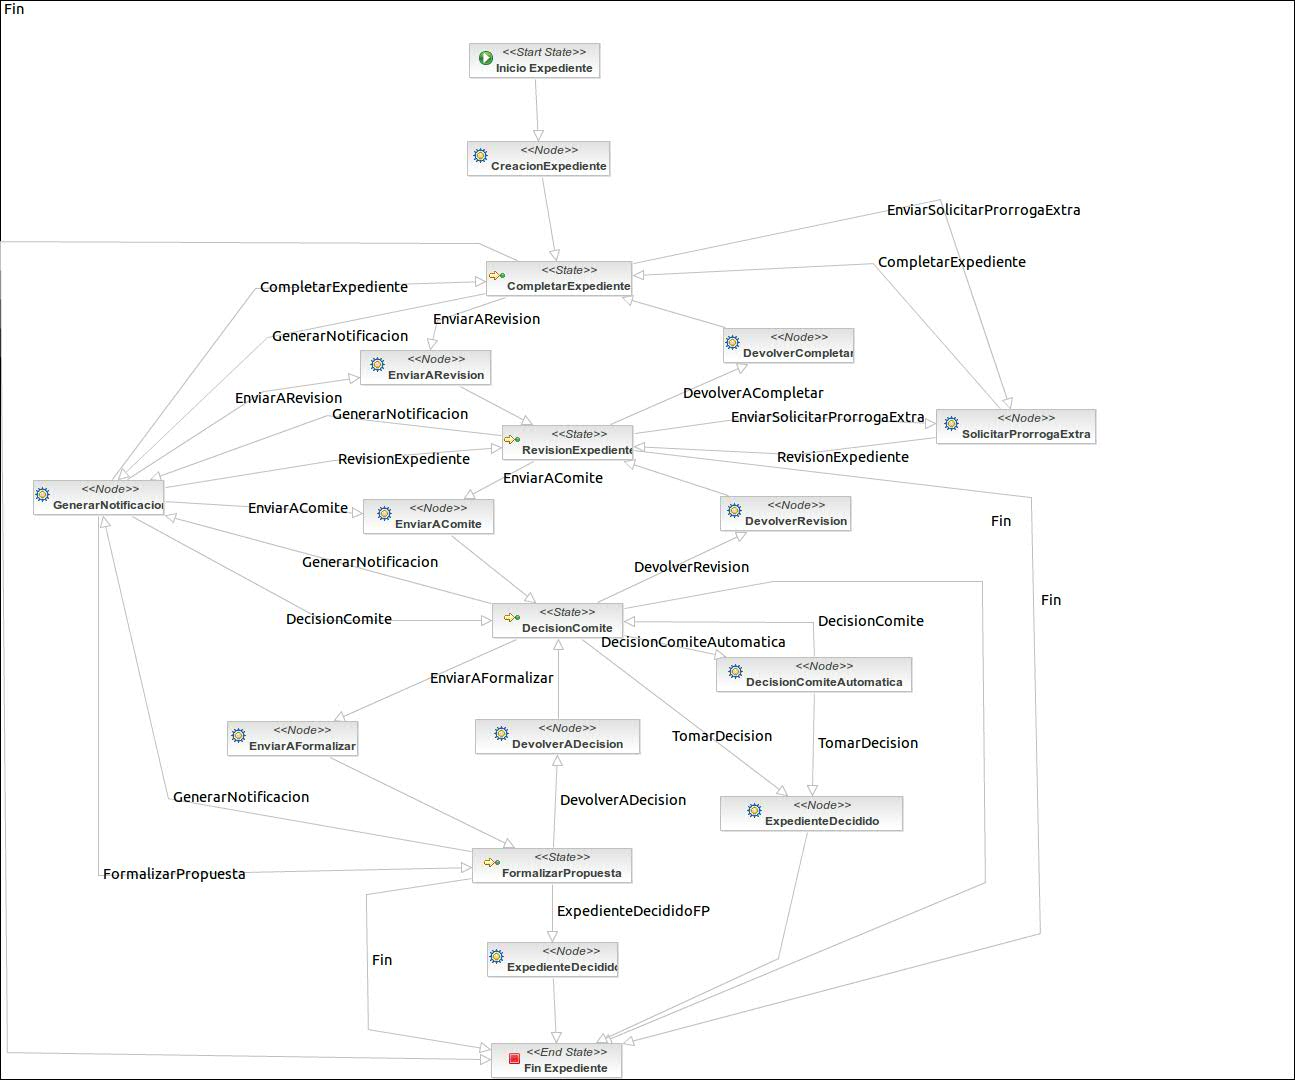
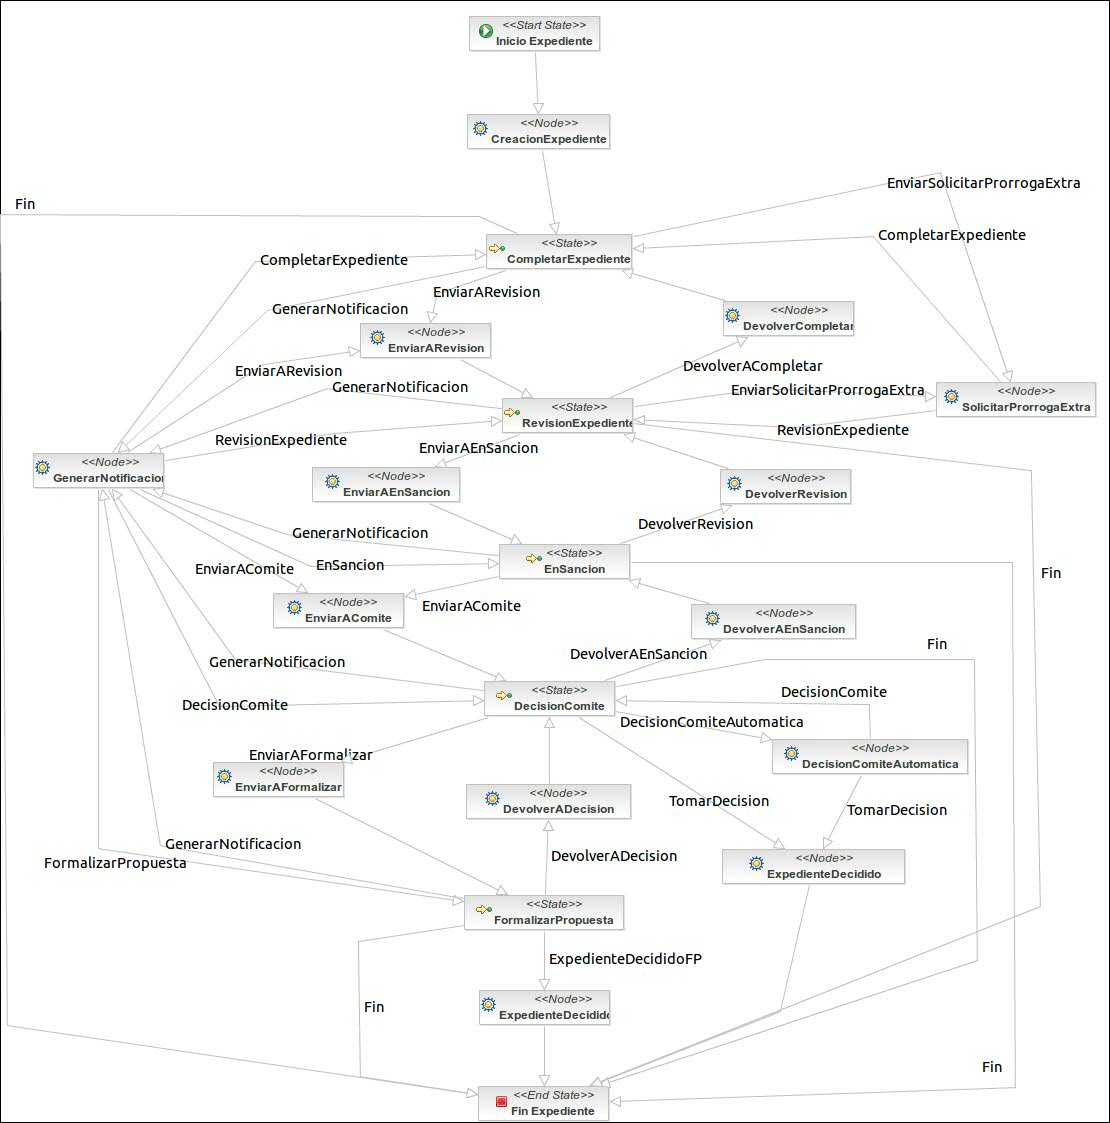
PRODUCTO-794 Nuevo BPM para expedientes de gestión de deuda
Former-commit-id: 47f1d5c2e58819380353e9c1ba68f74cce04e42f

diff --git a/rec-common/src/main/java/es/capgemini/pfs/expediente/ExpedienteManager.java b/rec-common/src/main/java/es/capgemini/pfs/expediente/ExpedienteManager.java
@@ -860,7 +860,7 @@ public class ExpedienteManager implements ExpedienteBPMConstants, ExpedienteMana
             Contrato contrato = (Contrato) executor.execute(PrimariaBusinessOperation.BO_CNT_MGR_GET, idContrato);
             expediente.setOficina(contrato.getOficina());
         }
-
+        //TODO Revisar la forma de obtener el nombre del expediente para igualarlo al nuevo batch
         //Le seteamos el nombre ya que ahora no se obtiene a trav�s de una f�rmula
         setearNombreExpediente(expediente);
         
